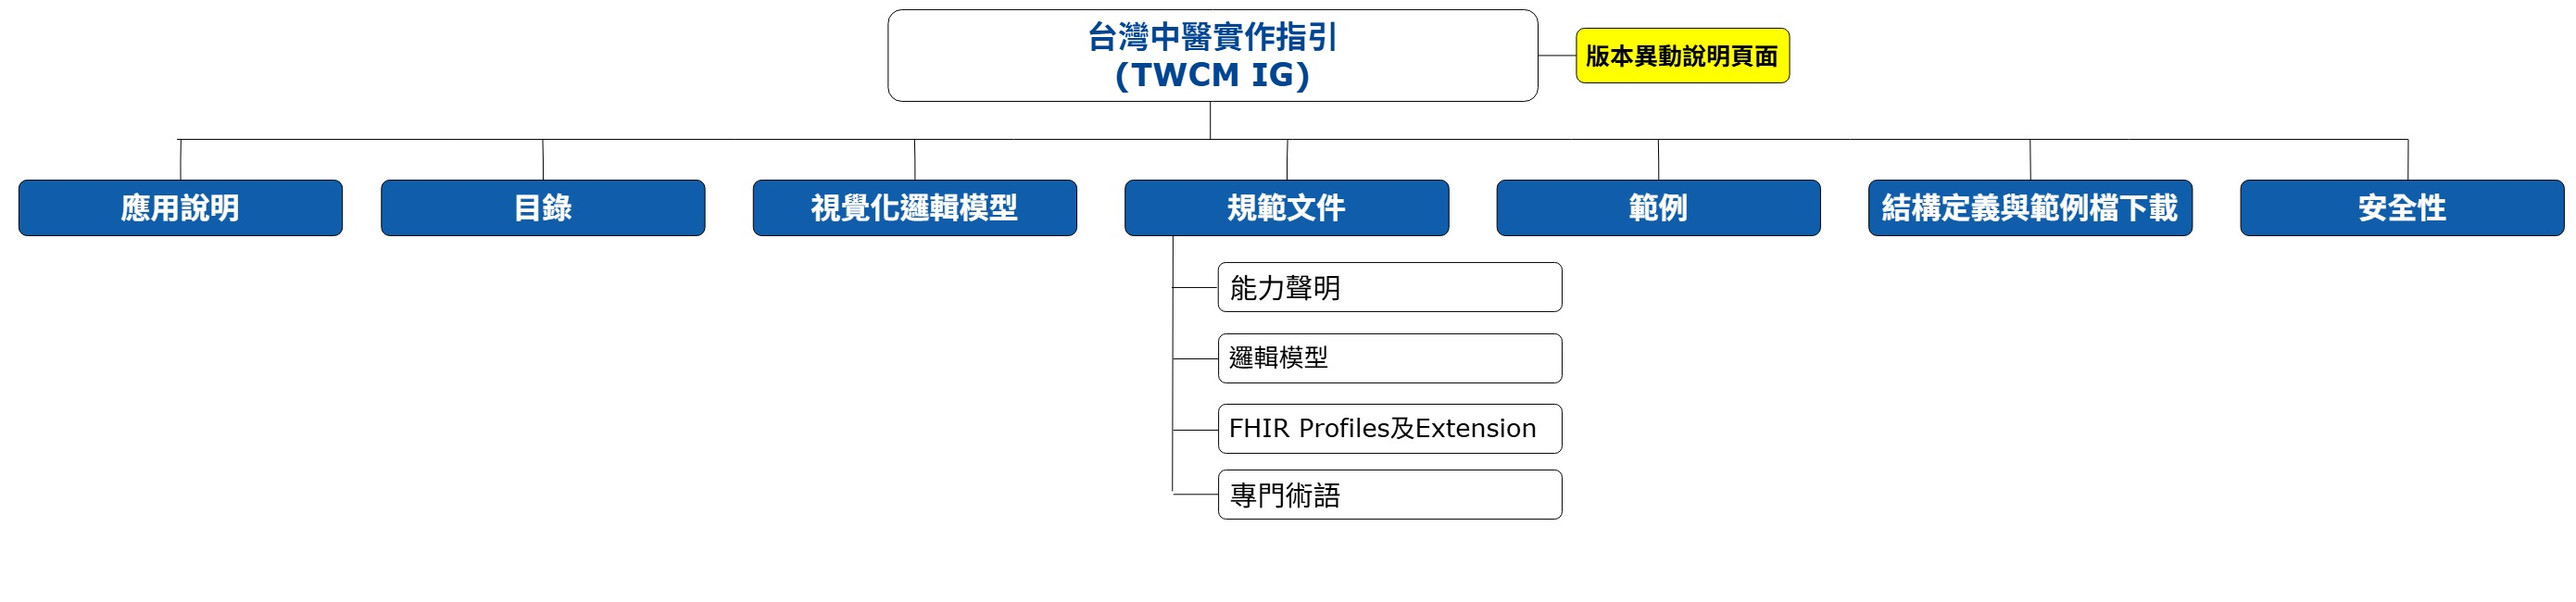
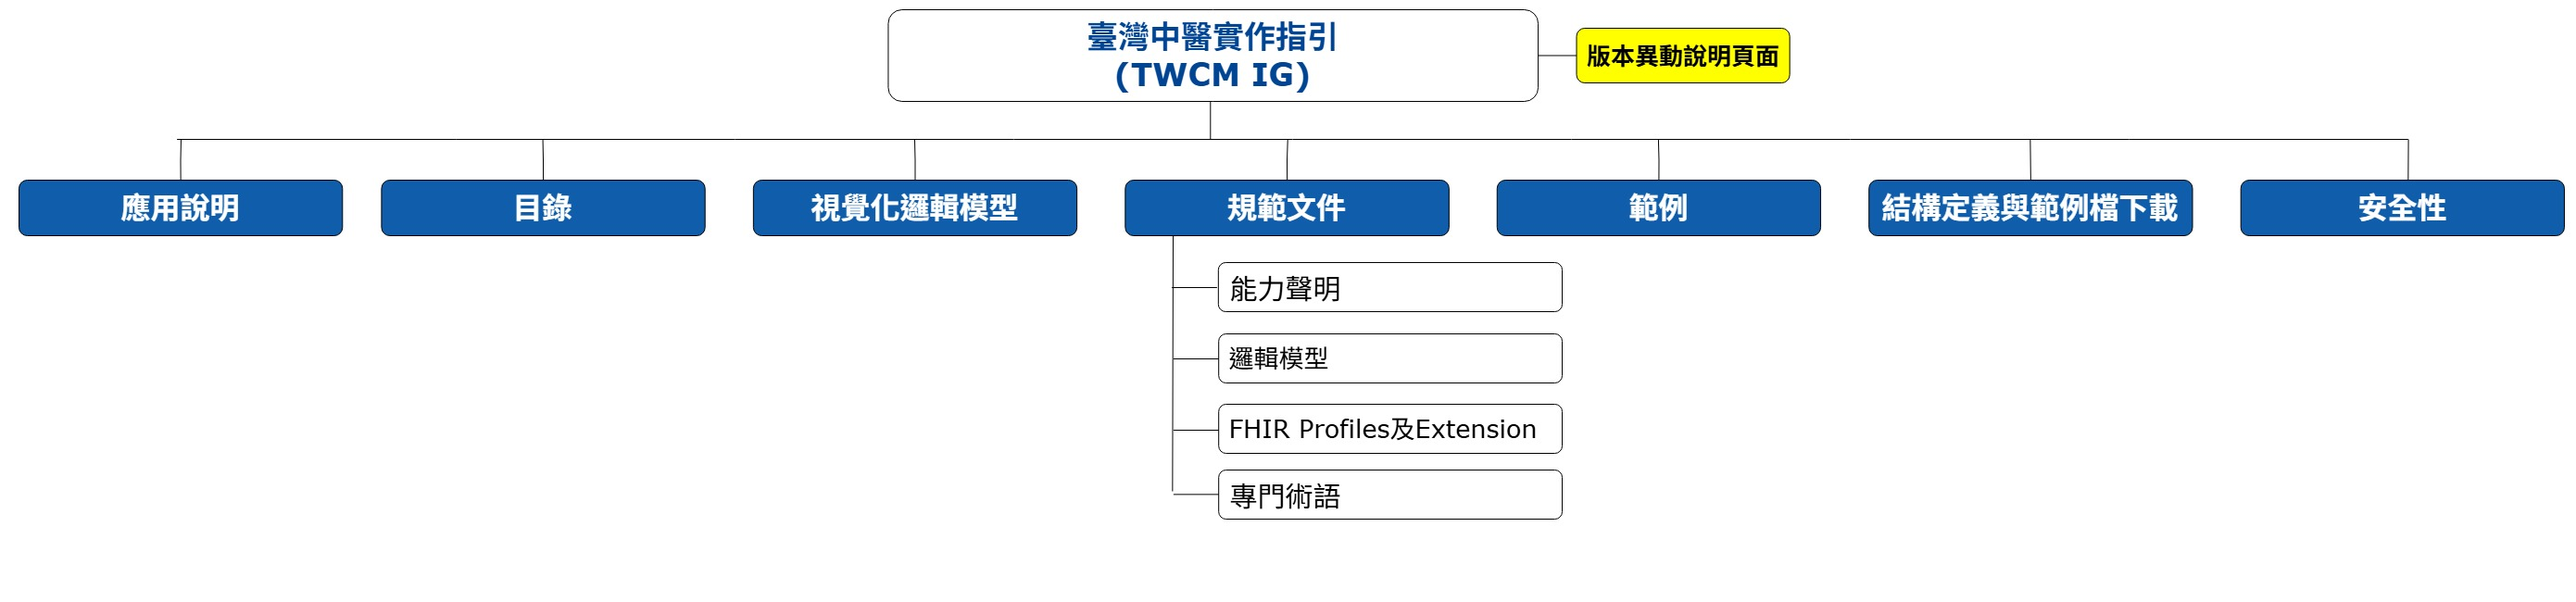
Update content

diff --git a/input/pagecontent/index.md b/input/pagecontent/index.md
@@ -8,42 +8,42 @@
 
 ### 介紹
 <div  style="padding-left: 10px;"> 
-<p>台灣中醫實作指引(Clinic Electronic Medical Record Implementation Guide,　ClinEMR IG)採用HL7® FHIR® standard（Fast Healthcare Interoperability Resources）IG建置方法，在FHIR R4.0.1之標準基礎上，繼承TW Core IG V 0.3.2 ，並參考衛福部電子病歷推動專區之標準文件<a href="https://emr.mohw.gov.tw/myemr/Html/doc/%E6%A8%99%E6%BA%96%E6%96%87%E4%BB%B6/%E5%AF%A6%E4%BD%9C%E6%8C%87%E5%BC%95%E6%A8%99%E6%BA%96%E6%9B%B8/119_%E4%B8%AD%E9%86%AB%E9%96%80%E8%A8%BA_PDF.pdf">119_中醫門診(診所)單張</a>，進一步定義適用於中醫門診資料需求的Resources（類似資料表）、其中的資料項目（意即欄位）、基數（意即0..1、0..*、1..1或1..*）及資料類型（文字、日期時間、代碼等）等。</p>
+<p>臺灣中醫實作指引(Clinic Electronic Medical Record Implementation Guide,　ClinEMR IG)採用HL7® FHIR® standard（Fast Healthcare Interoperability Resources）IG建置方法，在FHIR R4.0.1之標準基礎上，繼承TW Core IG V 0.3.2 ，並參考衛福部電子病歷推動專區之標準文件<a href="https://emr.mohw.gov.tw/myemr/Html/doc/%E6%A8%99%E6%BA%96%E6%96%87%E4%BB%B6/%E5%AF%A6%E4%BD%9C%E6%8C%87%E5%BC%95%E6%A8%99%E6%BA%96%E6%9B%B8/119_%E4%B8%AD%E9%86%AB%E9%96%80%E8%A8%BA_PDF.pdf">119_中醫門診(診所)單張</a>，進一步定義適用於中醫門診資料需求的Resources（類似資料表）、其中的資料項目（意即欄位）、基數（意即0..1、0..*、1..1或1..*）及資料類型（文字、日期時間、代碼等）等。</p>
 </div>
 
 ### 如何閱讀這個實作指引(IG)
 <div  style="padding-left: 10px;"> 
-<p>台灣中醫實作指引之網站架構圖如下圖所示。各功能說明如下：</p>
+<p>臺灣中醫實作指引之網站架構圖如下圖所示。各功能說明如下：</p>
 
 <img class="figure-img img-responsive img-rounded center-block" src="structure.jpg" alt="IG架構圖" style="display: block;margin-left: auto;margin-right: auto;width: 80%;"/>
 <div style="clear:both;"></div>
 
 <ul>
-	<li><strong><a href="index.html">應用說明</a></strong>：台灣中醫實作指引介紹及背景說明。</li>
+	<li><strong><a href="index.html">應用說明</a></strong>：臺灣中醫實作指引介紹及背景說明。</li>
 	<li><strong><a href="models.html">視覺化邏輯模型</a></strong>：TWCM IG邏輯模型架構視覺化圖。</li>
 	<li><strong><a href="artifacts.html">規範文件</a></strong>
 	<ul>
 		<li><strong><a href="capabilitystatements.html">能力聲明</a>
-			</strong>：應用台灣中醫實作指引於建置業務目的使用的FHIR Server時，該FHIR Server必須及建議應該支援的操作功能。
+			</strong>：應用臺灣中醫實作指引於建置業務目的使用的FHIR Server時，該FHIR Server必須及建議應該支援的操作功能。
 		</li>
 		<li><strong><a href="models.html">邏輯模型</a>
-			</strong>：台灣中醫實作指引的所有邏輯模型(Logical Models)，邏輯模型會定義相應情境下使用的所有資料欄位。為了便於實作者快速理解，資料欄位會使用易於理解的命名，實作者再透過邏輯模型中的功能頁籤「Mappings」瞭解各資料欄位實際使用本IG的哪個Profiles的哪個資料項目(element)。
+			</strong>：臺灣中醫實作指引的所有邏輯模型(Logical Models)，邏輯模型會定義相應情境下使用的所有資料欄位。為了便於實作者快速理解，資料欄位會使用易於理解的命名，實作者再透過邏輯模型中的功能頁籤「Mappings」瞭解各資料欄位實際使用本IG的哪個Profiles的哪個資料項目(element)。
 		</li>
     	<li><strong><a href="profiles-and-extensions.html">FHIR Profiles和Extension</a></strong>：
         	<ul>
-          		<li>台灣中醫實作指引的所有Profiles之定義與範例及Extensions。</li>
+          		<li>臺灣中醫實作指引的所有Profiles之定義與範例及Extensions。</li>
           		<li>各資料項目不同實作強制程度的Terminology。</li>
         	</ul>
       	</li>
 		<li><strong><a href="terminologies.html">專門術語</a>
-			</strong>：台灣中醫實作指引網站所使用的專門術語，包括代碼系統（Code Systems）及值集（Value Sets）。
+			</strong>：臺灣中醫實作指引網站所使用的專門術語，包括代碼系統（Code Systems）及值集（Value Sets）。
 		</li>
 	</ul>
 	</li>
-	<li><strong><a href="examples.html">範例</a></strong>：符合台灣中醫實作指引所定義Profiles之範例檔。</li>
+	<li><strong><a href="examples.html">範例</a></strong>：符合臺灣中醫實作指引所定義Profiles之範例檔。</li>
 	<li><strong><a href="downloads.html">結構定義與範例檔下載</a></strong>：實作者若不偏好使用FHIR RESTful API驗證資料是否符合Profiles，可直接下載所需的格式驗證檔，包括XML、JSON及Turtle三種格式，亦可於此下載完整範例檔。</li>
-	<li><strong><a href="security.html">安全性</a></strong>：主要說明採用台灣中醫實作指引網站進行實作時，有關資料存取授權的作法。</li>
-	<li><strong><a href="https://fhir.cohesiondata.com/clinemr/history.html">版本異動</a></strong>：若台灣中醫實作指引網站的版本有所異動，皆可透過<a href="https://fhir.cohesiondata.com/clinemr/history.html">異動說明頁</a>得以瞭解版本間的異動差異。</li>
+	<li><strong><a href="security.html">安全性</a></strong>：主要說明採用臺灣中醫實作指引網站進行實作時，有關資料存取授權的作法。</li>
+	<li><strong><a href="https://fhir.cohesiondata.com/clinemr/history.html">版本異動</a></strong>：若臺灣中醫實作指引網站的版本有所異動，皆可透過<a href="https://fhir.cohesiondata.com/clinemr/history.html">異動說明頁</a>得以瞭解版本間的異動差異。</li>
 </ul>
 </div>
 

diff --git a/input/includes/quickstart-intro.md b/input/includes/quickstart-intro.md
@@ -5,6 +5,6 @@
 
 ---
 
-以下概述了此Profile所需的RESTful FHIR互動功能。有關台灣中醫實作指引支援的RESTful互動功能的完整清單，請參閱[台灣中醫實作指引 Server能力聲明](CapabilityStatement-CapabilityStatementClinEMRServer.html)。
+以下概述了此Profile所需的RESTful FHIR互動功能。有關臺灣中醫實作指引支援的RESTful互動功能的完整清單，請參閱[臺灣中醫實作指引 Server能力聲明](CapabilityStatement-CapabilityStatementClinEMRServer.html)。
 
 {% include link-list.md %}

diff --git a/input/pagecontent/security.md b/input/pagecontent/security.md
@@ -8,7 +8,7 @@
 -   [安全標籤(Security Labels)](http://hl7.org/fhir/R4/security-labels.html)
 -   [說明(Narrative)](http://hl7.org/fhir/R4/security.html#narrative)
 
-就台灣中醫實作指引而言，安全一致性要求如下。
+就臺灣中醫實作指引而言，安全一致性要求如下。
 
 - 系統**必須(SHALL)** 保留各種交易的稽核日誌(audit logs)
 - 系統**必須(SHALL)** 符合[FHIR通訊安全(Communications Security)](http://hl7.org/fhir/R4/security.html#http)要求

diff --git a/input/pagecontent/examples.md b/input/pagecontent/examples.md
@@ -1,4 +1,4 @@
-以下為台灣中醫實作指引所有Profiles的範例。
+以下為臺灣中醫實作指引所有Profiles的範例。
 
 ### AllergyIntolerance
 - [過敏或不耐症範例](AllergyIntolerance-AllergyIntoleranceTWCM-min.html)：依據過敏或不耐症(AllergyIntolerance TWCM)Profile呈現中醫門診單中過敏與不耐症範例
